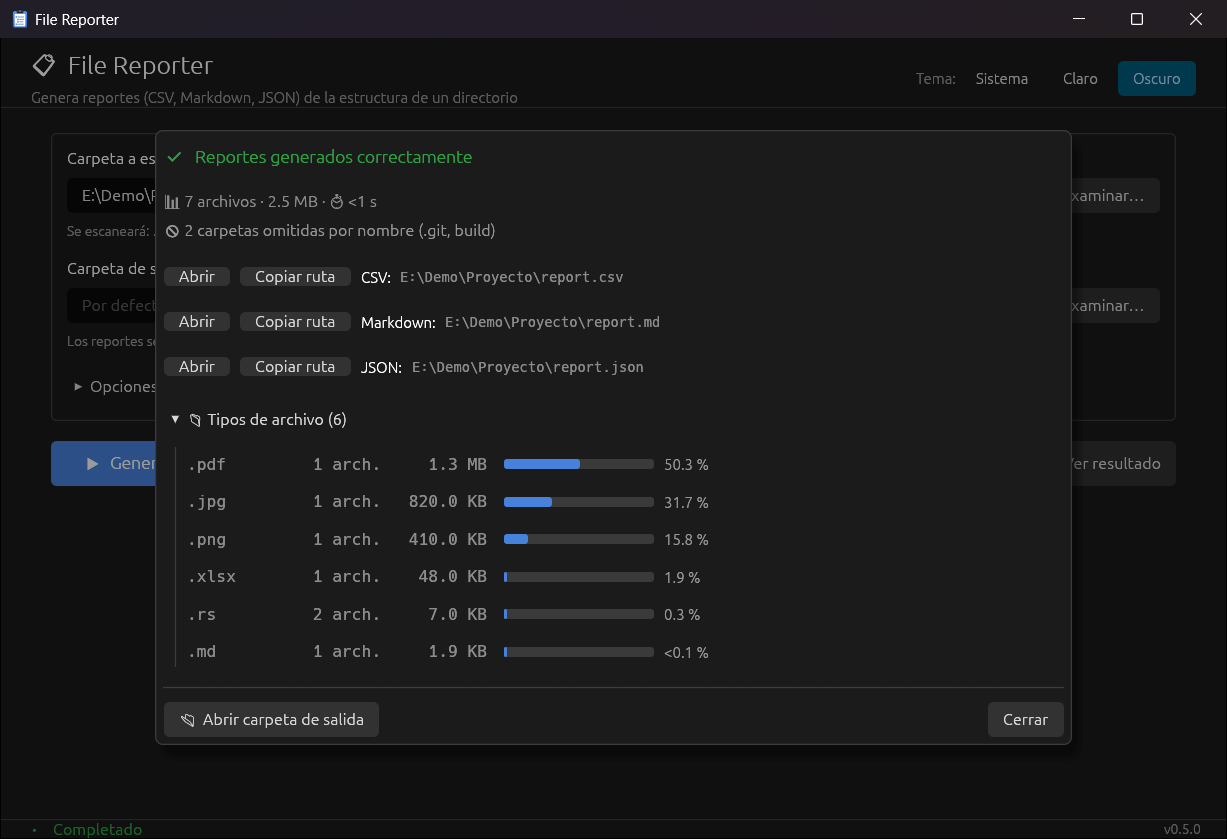
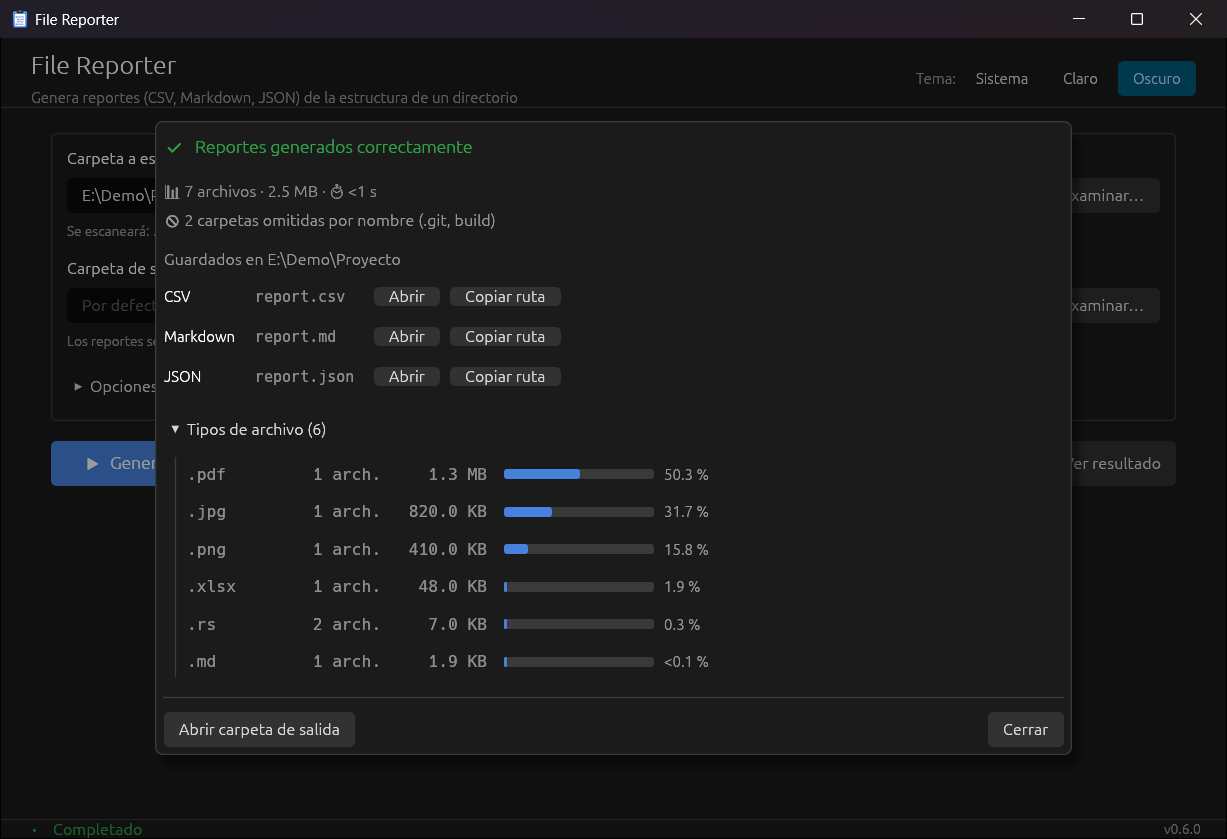
feat(gui): add "do not ask again" option to overwrite confirmation dialog
- Add "Do not ask again" checkbox to overwrite confirmation dialog that skips future prompts when regenerating reports
- Change primary action from "Overwrite" to "Update reports" for clearer intent
- Show full alternative filenames in overwrite dialog
- Display output folder path once in result window instead of repeating it
- Remove emoji characters (📂, 📁, 📋) that rendered poorly in GUI font
- Update CLI to display elapsed time in human-readable format matching GUI (`<1 s`, `42s`, `3m 05s`) instead of Rust internal format
- Add option in Settings to re-enable "Ask before replacing previous reports"
- Update documentation and screenshots to reflect new overwrite dialog workflow and result window layout
- Improves user experience by reducing friction when regenerating reports in same output folder

diff --git a/README.md b/README.md
@@ -10,7 +10,7 @@
 File Reporter es una herramienta escrita en Rust que se usa con **interfaz gráfica** (para el día a día) o desde la **línea de comandos** (para scripts y automatización). Recorre la carpeta en paralelo y genera hasta tres reportes con la estructura de carpetas y los datos de cada archivo: tamaño, fechas y ruta.
 
 <p align="center">
-  <img src="docs/images/gui-resultado.png" alt="Ventana de resultado de File Reporter: tres reportes generados, siete archivos, dos carpetas omitidas por nombre y una tabla de tipos de archivo con barras de porcentaje" width="760">
+  <img src="docs/images/gui-resultado.png" alt="Ventana de resultado de File Reporter: siete archivos, dos carpetas omitidas por nombre, la carpeta donde se guardaron los tres reportes con botones para abrirlos y una tabla de tipos de archivo con barras de porcentaje" width="760">
 </p>
 
 ---
@@ -75,7 +75,7 @@ file-reporter /ruta/a/escanear
 - 🧭 Formulario simple: lo esencial arriba y el resto en **Opciones**, con un resumen de lo elegido.
 - 📈 Progreso en vivo (archivos encontrados y carpetas revisadas); **cancela** en cualquier momento con Esc.
 - 🧾 Resultado claro: reportes (abrir o copiar su ruta), tipos de archivo y lo que quedó fuera, con su motivo.
-- ⚠ Antes de sobrescribir reportes anteriores, ofrece guardar los nuevos con otro nombre.
+- 🔄 Al volver a generar, ofrece actualizar los reportes anteriores o guardar los nuevos con otro nombre, o no volver a preguntar.
 - 🎨 Tema claro, oscuro o el del sistema; recuerda rutas y opciones entre sesiones.
 
 **Línea de comandos**
@@ -157,8 +157,8 @@ flowchart TD
     B --> C["▶ Generar reportes"]
     C --> D{"¿Ya hay reportes<br/>en la carpeta de salida?"}
     D -- "No" --> E["⏳ Escaneo con progreso en vivo<br/>Esc cancela"]
-    D -- "Sí" --> F{"Sobrescribir, guardar con<br/>otro nombre o cancelar"}
-    F -- "Sobrescribir u otro nombre" --> E
+    D -- "Sí" --> F{"Actualizar, guardar con<br/>otro nombre o cancelar"}
+    F -- "Actualizar u otro nombre" --> E
     F -- "Cancelar" --> A
     E --> G["✅ Resultado: reportes, tipos de archivo<br/>y lo que quedó fuera"]
 ```
@@ -169,8 +169,10 @@ flowchart TD
    - escribir las **extensiones** a incluir (las sugerencias se suman a lo escrito; pulsarlas otra vez las quita);
    - revisar las **carpetas a omitir** por nombre. De partida se omiten `.git`, `node_modules`, `target`, `__pycache__`, `.venv`, `dist` y `build`; vacía el campo para incluirlas;
    - marcar **Solo carpetas** para obtener solo la jerarquía de directorios;
-   - desmarcar los **formatos** que no necesites.
-4. Pulsa **▶ Generar reportes** (o Enter, si no estás escribiendo en un campo). Al terminar se abre la ventana de resultado. Ciérrala con **Cerrar**, Enter o Esc; el botón **Ver resultado** la vuelve a abrir.
+   - desmarcar los **formatos** que no necesites;
+   - volver a activar **Preguntar antes de reemplazar reportes anteriores**, si elegiste "No volver a preguntar".
+4. Pulsa **▶ Generar reportes** (o Enter, si no estás escribiendo en un campo). Si en la carpeta de salida ya hay reportes de una ejecución anterior, puedes **actualizarlos** (se reemplazan) o **guardar los nuevos con otro nombre** (`report-<carpeta>-<fecha>.*`).
+5. Al terminar se abre la ventana de resultado, con la carpeta donde se guardaron los reportes, un botón para abrir cada uno y los tipos de archivo. Ciérrala con **Cerrar**, Enter o Esc; el botón **Ver resultado** la vuelve a abrir.
 
 <p align="center">
   <img src="docs/images/gui-opciones.png" alt="Formulario de File Reporter con la carpeta a escanear, la carpeta de salida y Opciones desplegado: extensiones, carpetas a omitir, solo carpetas y formatos" width="760">
@@ -253,7 +255,7 @@ Mientras escanea, la terminal muestra cuántos archivos lleva encontrados, cuán
 
 ## 📁 Reportes generados
 
-Cada ejecución crea en la carpeta de salida los reportes elegidos (los tres por defecto). Se llaman `report.*` salvo que se elija otro nombre con `-n` o, en la GUI, con "Guardar con otro nombre" al ir a sobrescribir.
+Cada ejecución crea en la carpeta de salida los reportes elegidos (los tres por defecto). Se llaman `report.*` salvo que se elija otro nombre con `-n` o, en la GUI, con "Guardar con otro nombre" al volver a generar.
 
 | Archivo | Contenido | Ideal para |
 |---|---|---|

diff --git a/CHANGELOG.md b/CHANGELOG.md
@@ -4,13 +4,15 @@ Los cambios notables de cada versión. El formato sigue [Keep a Changelog](https
 
 ## [Sin publicar]
 
-### Cambiado
-
-- **CLI:** el tiempo total se muestra como en la GUI (`<1 s`, `42s`, `3m 05s`) en vez de con el formato interno de Rust (`5.26ms`, `183.4s`) ([#78](https://github.com/dbarretol/file-reporter/issues/78)).
-
 ### Añadido
 
+- **GUI: "No volver a preguntar"** en el diálogo que aparece al volver a generar: los reportes se actualizan sin preguntar. Se puede deshacer en Opciones, con "Preguntar antes de reemplazar reportes anteriores" ([#74](https://github.com/dbarretol/file-reporter/issues/74)).
 - **Sumas SHA256 en cada Release** (`SHA256SUMS.txt`), para comprobar que el ejecutable descargado está íntegro. El README explica cómo hacerlo en Windows y Linux ([#77](https://github.com/dbarretol/file-reporter/issues/77)).
+
+### Cambiado
+
+- **GUI: volver a generar con menos fricción.** El diálogo que aparece si ya hay reportes ofrece "Actualizar reportes" como acción principal (antes "Sobrescribir", en rojo), junto a "Guardar con otro nombre" y "Cancelar", y lista los nombres alternativos completos. La ventana de resultado muestra una vez la carpeta donde se guardaron y, en cada fila, solo el nombre del archivo. Se quitan los emoji que la fuente de la interfaz no dibujaba bien (📂, 📁, 📋) ([#74](https://github.com/dbarretol/file-reporter/issues/74)).
+- **CLI:** el tiempo total se muestra como en la GUI (`<1 s`, `42s`, `3m 05s`) en vez de con el formato interno de Rust (`5.26ms`, `183.4s`) ([#78](https://github.com/dbarretol/file-reporter/issues/78)).
 
 ### Corregido
 
